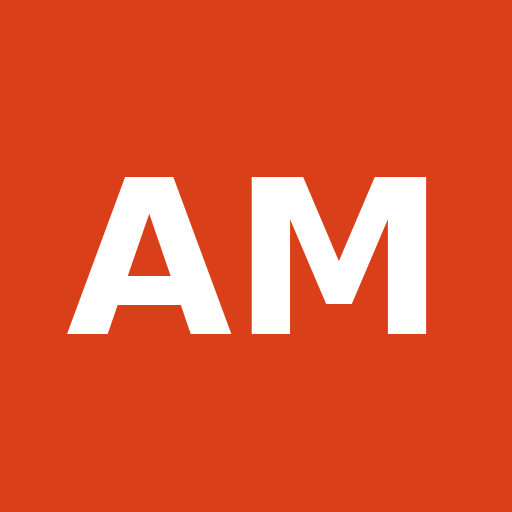
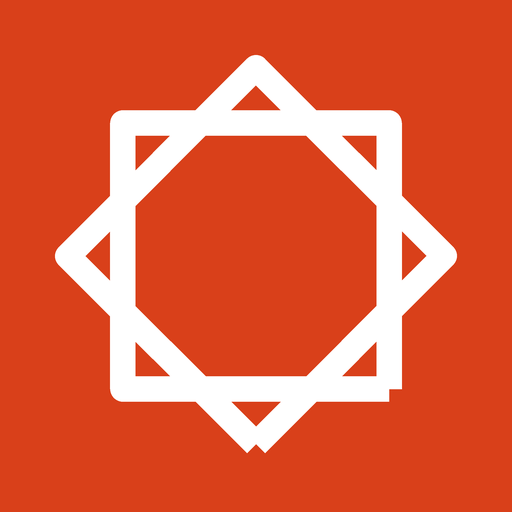
Add files via upload

Changed region(s): [[0.0938, 0.0938, 0.9062, 0.9062]]

diff --git a/index.html b/index.html
@@ -14,7 +14,7 @@
 <meta name="apple-mobile-web-app-title" content="Arabian Method">
 <meta name="description" content="Triathlon and running plans written each week around your race and your schedule, with sessions sent to your Garmin.">
 <link rel="preconnect" href="https://fonts.googleapis.com"><link rel="preconnect" href="https://fonts.gstatic.com" crossorigin>
-<link rel="stylesheet" href="https://fonts.googleapis.com/css2?family=Bricolage+Grotesque:opsz,wght@12..96,600..800&family=Geist:wght@400;500;600;700&family=IBM+Plex+Sans+Arabic:wght@400;500;600;700&display=swap">
+<link rel="stylesheet" href="https://fonts.googleapis.com/css2?family=Bricolage+Grotesque:opsz,wght@12..96,600..800&family=Geist:wght@400;500;600;700&family=Noto+Kufi+Arabic:wght@500;700&family=Noto+Sans+Arabic:wght@400;500;600;700&display=swap">
 <style id="coach-css">
 /* AI Coach, Pulse design (Claude Design handoff, 3 November 2026). Class names and hooks are unchanged from the Majlis build. */
 :root{--bg:#FBF8F4;--surface:#FFFFFF;--ink:#17140F;--muted:#5E574F;--faint:#8A8279;--line:#ECE5DC;--line-strong:#E3DBD0;--accent:#D9401A;--accent-ink:#B5330F;--accent-tint:#FCE9E2;--accent-dark:#FF6B45;--dark-line:#3A342C;--ok:#2F6B45;--ok-tint:#E6F0E8;--warn:#8A5A00;--warn-tint:#FBF0D9;--danger:#B42318;--danger-tint:#FBE6E3;
@@ -38,8 +38,18 @@ a:hover{color:var(--ink);}
 .pbrand:hover{color:var(--ink);}
 .plogo{display:inline-flex;align-items:center;justify-content:center;width:32px;height:32px;border-radius:9px;background:var(--accent);color:#fff;font-size:13px;font-weight:800;}
 @media (max-width:440px){.pbrand span:not(.plogo){font-size:14px;} .pnav-r .pill{padding:0 12px;} #navCta{padding:8px 14px;} .pnav-in{gap:10px;}}
+.plogo-star{display:block;width:40px;height:40px;flex:0 0 auto;}
+.plock{display:flex;flex-direction:column;line-height:1;}
+.plock b{font-family:var(--fd);font-weight:800;font-size:18px;letter-spacing:-.01em;color:var(--ink);}
+.plock small{font-size:10px;font-weight:600;letter-spacing:.22em;color:var(--accent);margin-top:5px;}
+html[lang="ar"] .plock b{font-family:'Noto Kufi Arabic',sans-serif;font-weight:700;font-size:18px;letter-spacing:0;}
+html[lang="ar"] .plock small{font-family:'Noto Kufi Arabic',sans-serif;letter-spacing:0;font-size:11px;font-weight:500;margin-top:3px;}
+@media (max-width:440px){.plock b{font-size:15px;} .plock small{font-size:9px;letter-spacing:.16em;} .plogo-star{width:34px;height:34px;}}
+.works{display:flex;flex-wrap:wrap;gap:12px;margin-top:28px;}
+.works span{display:inline-flex;align-items:center;gap:8px;min-height:48px;padding:0 20px;border:1px solid var(--line-strong);border-radius:999px;background:var(--surface);font-family:var(--fd);font-weight:700;font-size:17px;color:var(--ink);}
+.works span small{font-family:var(--fb);font-weight:500;font-size:13px;color:var(--faint);}
 .pnav-r{margin-inline-start:auto;display:flex;align-items:center;gap:8px;}
-.pill{display:inline-flex;align-items:center;justify-content:center;min-height:44px;padding:0 16px;border:1px solid var(--line-strong);border-radius:999px;background:var(--surface);color:var(--ink);font-family:'IBM Plex Sans Arabic',var(--fb);font-size:14px;font-weight:600;cursor:pointer;}
+.pill{display:inline-flex;align-items:center;justify-content:center;min-height:44px;padding:0 16px;border:1px solid var(--line-strong);border-radius:999px;background:var(--surface);color:var(--ink);font-family:'Noto Sans Arabic',var(--fb);font-size:14px;font-weight:600;cursor:pointer;}
 .pill:hover{border-color:var(--ink);}
 .ck-tabs{order:3;flex:1 0 100%;display:flex;gap:4px;overflow-x:auto;scrollbar-width:none;margin:0 -20px;padding:0 20px;}
 .ck-tabs::-webkit-scrollbar{display:none;}
@@ -318,17 +328,18 @@ dl.pay dd{color:var(--ink);font-weight:600;overflow-wrap:anywhere;}
 .legal + .legal{margin-top:96px;padding-top:64px;border-top:1px solid var(--line);}
 .attrib{font-size:14px;color:var(--faint);}
 
-/* Arabic: IBM Plex Sans Arabic throughout, more line height, no letter spacing */
-html[lang="ar"] body, html[lang="ar"] .in, html[lang="ar"] .sel, html[lang="ar"] .ta, html[lang="ar"] .btn, html[lang="ar"] h2, html[lang="ar"] h3, html[lang="ar"] .ck-hero h1, html[lang="ar"] .pbrand, html[lang="ar"] .sess b, html[lang="ar"] .wd b, html[lang="ar"] .stat .v{font-family:'IBM Plex Sans Arabic',var(--fb);letter-spacing:0;}
+/* Arabic: Noto Sans Arabic for reading, Noto Kufi Arabic for headings and the brand */
+html[lang="ar"] body, html[lang="ar"] .in, html[lang="ar"] .sel, html[lang="ar"] .ta, html[lang="ar"] .btn{font-family:'Noto Sans Arabic',var(--fb);letter-spacing:0;}
+html[lang="ar"] h2, html[lang="ar"] h3, html[lang="ar"] .ck-hero h1, html[lang="ar"] .sess b, html[lang="ar"] .wd b, html[lang="ar"] .stat .v, html[lang="ar"] .eyebrow, html[lang="ar"] .chip{font-family:'Noto Kufi Arabic','Noto Sans Arabic',var(--fb);letter-spacing:0;}
 html[lang="ar"] main, html[lang="ar"] .pnav-in{direction:rtl;text-align:right;}
 html[lang="ar"] body{line-height:1.85;}
-html[lang="ar"] .ck-hero h1{font-weight:700;line-height:1.3;font-size:40px;}
-html[lang="ar"] h2{font-weight:700;line-height:1.35;font-size:30px;}
+html[lang="ar"] .ck-hero h1{font-weight:700;line-height:1.45;font-size:38px;}
+html[lang="ar"] h2{font-weight:700;line-height:1.5;font-size:28px;max-width:22em;}
 html[lang="ar"] h3{font-weight:700;line-height:1.5;}
 html[lang="ar"] .today-card h3{font-size:28px;line-height:1.4;}
 html[lang="ar"] .ck-preview b{letter-spacing:0;text-transform:none;font-size:14px;}
-@media (min-width:768px){html[lang="ar"] .ck-hero h1{font-size:56px;} html[lang="ar"] h2{font-size:40px;}}
-@media (min-width:1280px){html[lang="ar"] .ck-hero h1{font-size:64px;} html[lang="ar"] h2{font-size:46px;}}
+@media (min-width:768px){html[lang="ar"] .ck-hero h1{font-size:50px;} html[lang="ar"] h2{font-size:36px;}}
+@media (min-width:1280px){html[lang="ar"] .ck-hero h1{font-size:58px;} html[lang="ar"] h2{font-size:42px;}}
 html[lang="ar"] [dir="ltr"]{text-align:left;}
 html[lang="ar"] .ck-preview{direction:rtl;text-align:right;}
 html[lang="ar"] .stats3 .v, html[lang="ar"] .price{font-family:var(--fd);direction:ltr;text-align:right;}
@@ -339,7 +350,7 @@ html[lang="ar"] .stats3 .v, html[lang="ar"] .price{font-family:var(--fd);directi
 <div class="ck-preview" id="previewBar" hidden><div class="ck-wrap"><p data-th="previewBar"></p></div></div>
 
 <div class="pnav" id="pnav"><div class="pnav-in">
-  <a class="pbrand" href="#overview" data-go="overview"><span class="plogo" aria-hidden="true">AM</span><span data-lang="en">ARABIAN METHOD</span><span data-lang="ar">المنهج العربي</span></a>
+  <a class="pbrand" href="#overview" data-go="overview"><svg class="plogo-star" viewBox="0 0 58 58" aria-hidden="true"><rect width="58" height="58" rx="15" fill="#D9401A"/><g transform="translate(29 29)" fill="none" stroke="#fff" stroke-width="2.8" stroke-linejoin="round"><rect x="-13" y="-13" width="26" height="26"/><rect x="-13" y="-13" width="26" height="26" transform="rotate(45)"/></g></svg><span class="plock" data-lang="en"><b>ARABIAN METHOD</b><small>AI COACHING</small></span><span class="plock" data-lang="ar"><b>المنهج العربي</b><small>تدريب بالذكاء الاصطناعي</small></span></a>
   <nav class="ck-tabs" id="tabs" aria-label="Coach pages">
     <a href="#overview" data-go="overview" data-t="tabOverview"></a>
     <a href="#signin" data-go="signin" data-t="signin" data-when="out"></a>
@@ -376,6 +387,7 @@ html[lang="ar"] .stats3 .v, html[lang="ar"] .price{font-family:var(--fd);directi
         <p class="sub">أخبره بهدفك والأيام التي تستطيع التدرب فيها. يتعلم من كل تمرين وكل تسجيل يومي، ثم يعدّل تدريبك لتصل إلى خط البداية بصحة جيدة وجاهزية كاملة.</p>
       </div>
       <div class="ck-cta" id="heroCta"><a class="btn" href="#register" data-go="register"><span data-lang="en">Start free</span><span data-lang="ar">ابدأ مجانا</span></a><a class="btn ghost" href="#signin" data-go="signin" data-t="signin"></a></div>
+      <div class="ck-cta" style="margin-top:12px"><a class="btn dark" href="#sponsor" data-go="sponsor"><span data-lang="en">Apply for sponsored training</span><span data-lang="ar">قدّم على التدريب المموَّل</span></a></div>
       <p class="free"><span data-lang="en">First month free for the first 30 athletes who confirm their email</span><span data-lang="ar">الشهر الأول مجانا لأول 30 رياضيا يؤكدون بريدهم الإلكتروني</span></p>
     </div>
     <div class="hero-vis" aria-hidden="true">
@@ -501,6 +513,11 @@ html[lang="ar"] .stats3 .v, html[lang="ar"] .price{font-family:var(--fd);directi
     </div>
   </div></div></div>
 
+  <div class="section tight"><div class="ck-wrap">
+    <p class="eyebrow"><span data-lang="en">Works with</span><span data-lang="ar">يعمل مع</span></p>
+    <div class="works" dir="ltr"><span>Garmin</span><span>Intervals.icu</span><span>Rouvy</span><span>TrainingPeaks <small data-lang="en">planned</small><small data-lang="ar">قريبا</small></span><span>.fit / .tcx / .gpx <small data-lang="en">any watch</small><small data-lang="ar">أي ساعة</small></span></div>
+  </div></div>
+
   <div class="section tight" id="rules"><div class="ck-wrap">
     <div data-lang="en">
       <p class="eyebrow">The science behind the plans</p>
@@ -540,7 +557,7 @@ html[lang="ar"] .stats3 .v, html[lang="ar"] .price{font-family:var(--fd);directi
         <p data-lang="en">First month free for the first 30 athletes who confirm their email.</p>
         <p data-lang="ar" dir="rtl" lang="ar">الشهر الأول مجانا لأول 30 رياضيا يؤكدون بريدهم الإلكتروني.</p>
       </div>
-      <div class="ck-cta" style="margin-top:0"><a class="btn onband" href="#register" data-go="register"><span data-lang="en">Start free</span><span data-lang="ar">ابدأ مجانا</span></a></div>
+      <div class="ck-cta" style="margin-top:0"><a class="btn onband" href="#register" data-go="register"><span data-lang="en">Start free</span><span data-lang="ar">ابدأ مجانا</span></a><a class="btn outline-dark" style="border-color:#fff" href="#sponsor" data-go="sponsor"><span data-lang="en">Apply for sponsored training</span><span data-lang="ar">قدّم على التدريب المموَّل</span></a></div>
     </div>
   </div></div>
 </section>
@@ -737,6 +754,32 @@ html[lang="ar"] .stats3 .v, html[lang="ar"] .price{font-family:var(--fd);directi
   <p class="note" data-th="memTerms"></p>
 </div></div></section>
 
+<!-- SPONSORED TRAINING -->
+<section class="view" id="v-sponsor"><div class="section"><div class="ck-wrap">
+  <div class="split"><div class="intro">
+    <div data-lang="en"><p class="eyebrow">Sponsored training</p><h2>Apply for a sponsored place</h2>
+      <p class="lead">Arabian Method offers free membership to selected runners and triathletes in Bahrain. Tell us about yourself and your goal. Every application is reviewed, and selected athletes are contacted by email or phone.</p></div>
+    <div data-lang="ar" dir="rtl" lang="ar"><p class="eyebrow">التدريب المموَّل</p><h2>قدّم على مقعد مموَّل</h2>
+      <p class="lead">يقدم المنهج العربي عضوية مجانية لعدد مختار من العدائين ورياضيي الترايثلون في البحرين. أخبرنا عن نفسك وعن هدفك. تُراجع كل الطلبات، ونتواصل مع الرياضيين المختارين عبر البريد الإلكتروني أو الهاتف.</p></div>
+  </div>
+  <form class="form formcard" id="spForm" novalidate>
+    <div class="field"><label for="sp-name"><span data-lang="en">Full name</span><span data-lang="ar">الاسم الكامل</span></label><input class="in" id="sp-name" autocomplete="name" maxlength="120"></div>
+    <div class="row2">
+      <div class="field"><label for="sp-email"><span data-lang="en">Email</span><span data-lang="ar">البريد الإلكتروني</span></label><input class="in" id="sp-email" type="email" autocomplete="email" maxlength="200" dir="ltr"></div>
+      <div class="field"><label for="sp-phone"><span data-lang="en">Mobile number</span><span data-lang="ar">رقم الهاتف</span></label><input class="in" id="sp-phone" type="tel" autocomplete="tel" maxlength="30" dir="ltr"></div>
+    </div>
+    <div class="field"><label for="sp-sport"><span data-lang="en">Sport</span><span data-lang="ar">الرياضة</span></label>
+      <select class="sel" id="sp-sport"><option value="running">Running / الجري</option><option value="triathlon">Triathlon / الترايثلون</option></select></div>
+    <div class="field"><label for="sp-goal"><span data-lang="en">Your goal race and date</span><span data-lang="ar">سباقك المستهدف وتاريخه</span></label><input class="in" id="sp-goal" maxlength="300"></div>
+    <div class="field"><label for="sp-exp"><span data-lang="en">Your experience so far</span><span data-lang="ar">خبرتك حتى الآن</span></label><input class="in" id="sp-exp" maxlength="300"></div>
+    <div class="field"><label for="sp-reason"><span data-lang="en">Why should you be sponsored?</span><span data-lang="ar">لماذا تستحق التمويل؟</span></label><textarea class="ta" id="sp-reason" maxlength="2000"></textarea></div>
+    <fieldset class="field consents"><label class="check"><input type="checkbox" id="sp-adult"><span><span data-lang="en">I am 18 or older, and I agree that Arabian Method may store this application to review it.</span><span data-lang="ar">عمري 18 عاما أو أكثر، وأوافق على أن يحفظ المنهج العربي هذا الطلب لمراجعته.</span></span></label></fieldset>
+    <p class="err" id="spErr" role="alert"></p>
+    <div class="ck-cta"><button class="btn" type="submit"><span data-lang="en">Send application</span><span data-lang="ar">أرسل الطلب</span></button></div>
+    <p class="ok-msg" id="spOk"><span data-lang="en">Thank you. Your application has been received, and we will contact you after it is reviewed.</span><span data-lang="ar">شكرا لك. وصلنا طلبك، وسنتواصل معك بعد مراجعته.</span></p>
+  </form></div>
+</div></div></section>
+
 <!-- ADMIN -->
 <section class="view" id="v-admin"><div class="section"><div class="ck-wrap">
   <p class="eyebrow" data-t="tabAdmin"></p>
@@ -746,6 +789,7 @@ html[lang="ar"] .stats3 .v, html[lang="ar"] .price{font-family:var(--fd);directi
   <div id="admPays" class="adm"></div>
   <div id="admClear" class="adm"></div>
   <div id="admAthletes" class="adm"></div>
+  <div id="admSponsor" class="adm"></div>
 </div></div></section>
 
 <!-- LEGAL -->
@@ -930,6 +974,6 @@ html[lang="ar"] .stats3 .v, html[lang="ar"] .price{font-family:var(--fd);directi
 </main>
 
 <script src="https://cdn.jsdelivr.net/npm/@supabase/supabase-js@2.118.0/dist/umd/supabase.min.js"></script>
-<script src="coach.js?v=20261109b"></script>
+<script src="coach.js?v=20261109c"></script>
 </body>
 </html>

diff --git a/coach.js b/coach.js
@@ -267,7 +267,7 @@ if($("langToggle2")) $("langToggle2").addEventListener("click", flipLang);
 
 /* ---------- state and routing ---------- */
 var STATE = { view:null, user:null, profile:null, admin:false };
-var VIEWS = ["overview","register","signin","week","connect","profile","membership","admin","privacy","terms"];
+var VIEWS = ["overview","register","signin","week","connect","profile","membership","sponsor","admin","privacy","terms"];
 var NEEDS_IN = {week:1, connect:1, profile:1, admin:1};
 
 function setTabs(){
@@ -327,6 +327,23 @@ if(sb) sb.auth.onAuthStateChange(function(ev){
 });
 
 /* register */
+$("spForm").addEventListener("submit", async function(e){
+  e.preventDefault(); err("spErr"); ok("spOk", false);
+  var ar = LANG === "ar";
+  var row = { full_name:$("sp-name").value.trim(), email:$("sp-email").value.trim(), phone:$("sp-phone").value.trim(),
+    sport:$("sp-sport").value, goal:$("sp-goal").value.trim() || null, experience:$("sp-exp").value.trim() || null,
+    reason:$("sp-reason").value.trim(), lang:LANG, adult_confirmed:$("sp-adult").checked };
+  if(row.full_name.length < 2) return err("spErr", t("eName"));
+  if(!/^[^\s@]+@[^\s@]+\.[^\s@]+$/.test(row.email)) return err("spErr", t("eEmail"));
+  if(row.phone.replace(/\D/g,"").length < 6) return err("spErr", ar ? "يرجى كتابة رقم هاتف صحيح." : "Please enter a valid mobile number.");
+  if(row.reason.length < 10) return err("spErr", ar ? "يرجى كتابة سطر أو سطرين عن سبب تقديمك." : "Please write a line or two on why you are applying.");
+  if(!row.adult_confirmed) return err("spErr", ar ? "يرجى تأكيد أن عمرك 18 عاما أو أكثر." : "Please confirm that you are 18 or older.");
+  if(!sb){ ok("spOk"); return; }
+  var r = await sb.from("sponsorship_applications").insert(row);
+  if(r.error) return err("spErr", ar ? "تعذر إرسال الطلب. يرجى المحاولة مرة أخرى." : "The application could not be sent. Please try again.");
+  ok("spOk"); $("spForm").querySelectorAll("input,textarea").forEach(function(x){ if(x.type === "checkbox") x.checked = false; else x.value = ""; });
+});
+
 $("regForm").addEventListener("submit", async function(e){
   e.preventDefault(); err("regErr"); ok("regOk", false);
   var n = $("r-name").value.trim(), m = $("r-email").value.trim(), p = $("r-pass").value, p2 = $("r-pass2").value, y = parseInt($("r-year").value, 10);
@@ -655,6 +672,16 @@ async function renderAdmin(){
   var name = {}; people.forEach(function(p){ name[p.user_id] = p.full_name; });
   function section(id, title, node){ var box = $(id); box.innerHTML = ""; box.appendChild(el("h3",{text:title})); box.appendChild(node || el("p",{cls:"note", text:t("none")})); }
 
+  var apps = (await sb.from("sponsorship_applications").select("*").order("created_at",{ascending:false}).limit(100)).data || [];
+  if(apps.length){
+    var tb = el("table",{},[el("tr",{},["Date","Name","Sport","Contact","Goal","Why","Status"].map(function(h){ return el("th",{text:h}); }))]);
+    apps.forEach(function(a){
+      var st = el("select",{cls:"sel"},["new","accepted","declined"].map(function(v){ var o = el("option",{value:v, text:v}); if(v === a.status) o.selected = true; return o; }));
+      st.addEventListener("change", async function(){ await sb.from("sponsorship_applications").update({status:st.value, reviewed_at:new Date().toISOString()}).eq("id", a.id); });
+      tb.appendChild(el("tr",{},[el("td",{text:a.created_at.slice(0,10)}), el("td",{text:a.full_name}), el("td",{text:a.sport}), el("td",{text:a.email + " " + a.phone}), el("td",{text:a.goal || ""}), el("td",{text:a.reason}), el("td",{},[st])]));
+    });
+    section("admSponsor", "Sponsorship applications (" + apps.filter(function(a){ return a.status === "new"; }).length + " new)", el("div",{cls:"card"},[tb]));
+  } else section("admSponsor", "Sponsorship applications");
   var flags = (await sb.from("flags").select("*").is("resolved_at", null).order("urgent",{ascending:false}).order("created_at")).data || [];
   section("admFlags", t("admFlags"), flags.length ? table(["", "", "", ""], flags.map(function(f){
     return [f.created_at.slice(0,16).replace("T"," "), name[f.user_id] || "", (f.urgent ? "URGENT, " : "") + f.reason.replace(/_/g," ") + (f.detail ? ": " + f.detail : ""),
